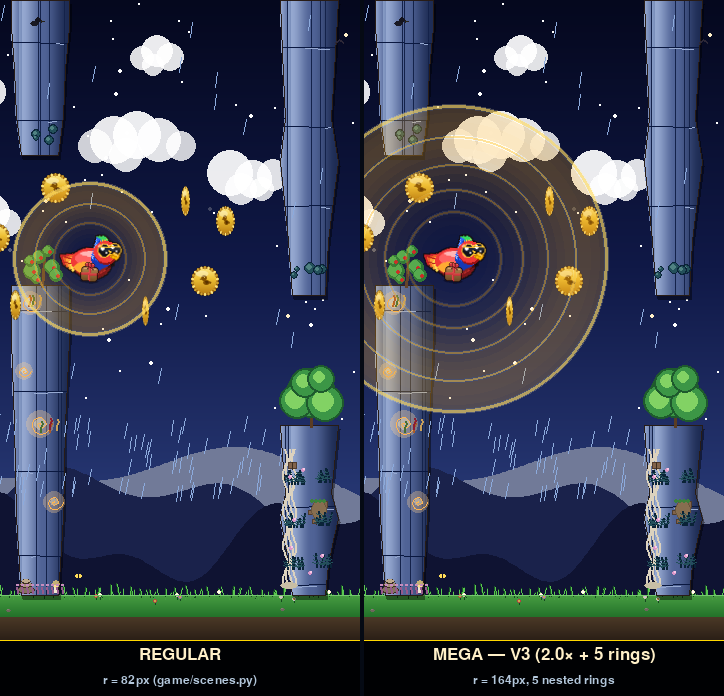
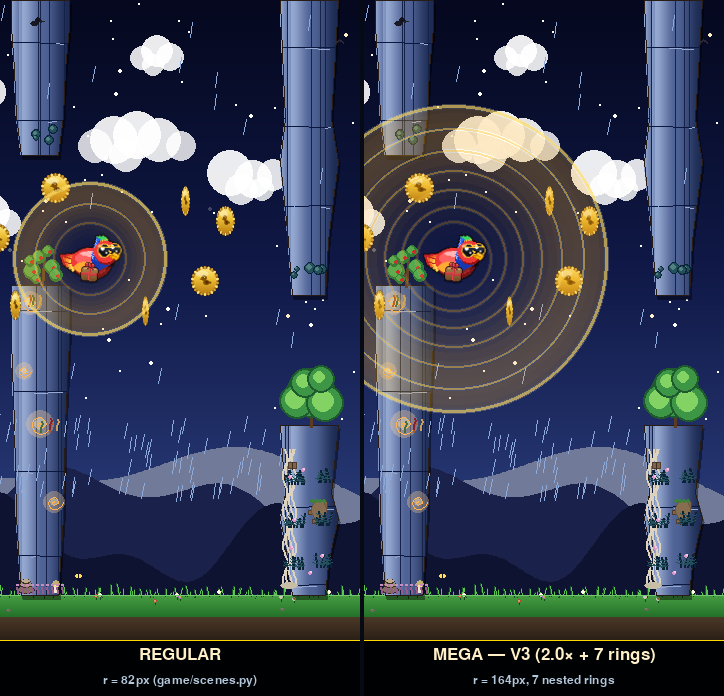
mega magnet: V3 field bumped from 5 → 7 nested rings
Adds two more rings to the chosen V3 active-field per user feedback.
Outer radius unchanged (still 2.0× regular = 164 px). New stack goes
1.00 → 0.88 → 0.76 → 0.64 → 0.52 → 0.40 → 0.28 with 0.12 step,
giving a smoother amber-to-deep-gold gradient toward the centre.
Regenerates the three in-game previews.

diff --git a/tools/render_mega_magnet_v3_in_game.py b/tools/render_mega_magnet_v3_in_game.py
@@ -53,10 +53,12 @@ DEFAULT_RINGS = (
 
 V3_RINGS = (
     (1.00, 0.0,  170, 3, 1.00, (255, 220, 100)),
-    (0.84, 0.4,  150, 2, 0.92, (255, 205,  80)),
-    (0.68, 0.8,  130, 2, 0.85, (255, 195,  60)),
+    (0.88, 0.3,  155, 2, 0.94, (255, 210,  90)),
+    (0.76, 0.6,  140, 2, 0.88, (255, 200,  70)),
+    (0.64, 0.9,  125, 2, 0.82, (250, 190,  55)),
     (0.52, 1.2,  110, 2, 0.75, (240, 175,  45)),
-    (0.36, 1.6,   90, 2, 0.65, (220, 155,  30)),
+    (0.40, 1.5,   95, 2, 0.68, (225, 160,  35)),
+    (0.28, 1.8,   80, 2, 0.60, (210, 145,  25)),
 )
 
 
@@ -223,8 +225,8 @@ def main():
     _label(composite, 0, H, W, BAND_H,
            "REGULAR", f"r = {MAGNET_RADIUS:.0f}px (game/scenes.py)")
     _label(composite, W + 4, H, W, BAND_H,
-           "MEGA — V3 (2.0× + 5 rings)",
-           f"r = {MAGNET_RADIUS * 2.0:.0f}px, 5 nested rings")
+           "MEGA — V3 (2.0× + 7 rings)",
+           f"r = {MAGNET_RADIUS * 2.0:.0f}px, 7 nested rings")
     pygame.image.save(composite,
                       os.path.join(_OUT, "v3_in_game_compare.png"))
 
